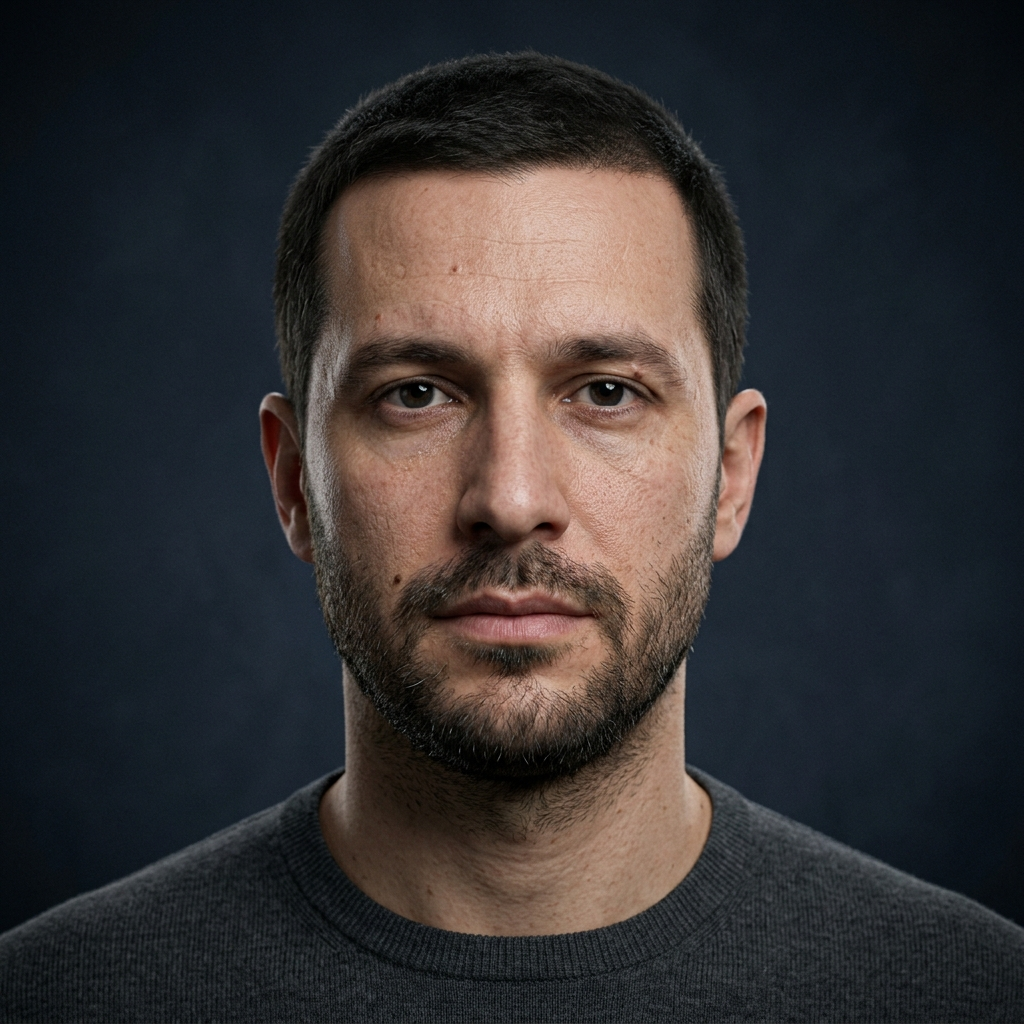
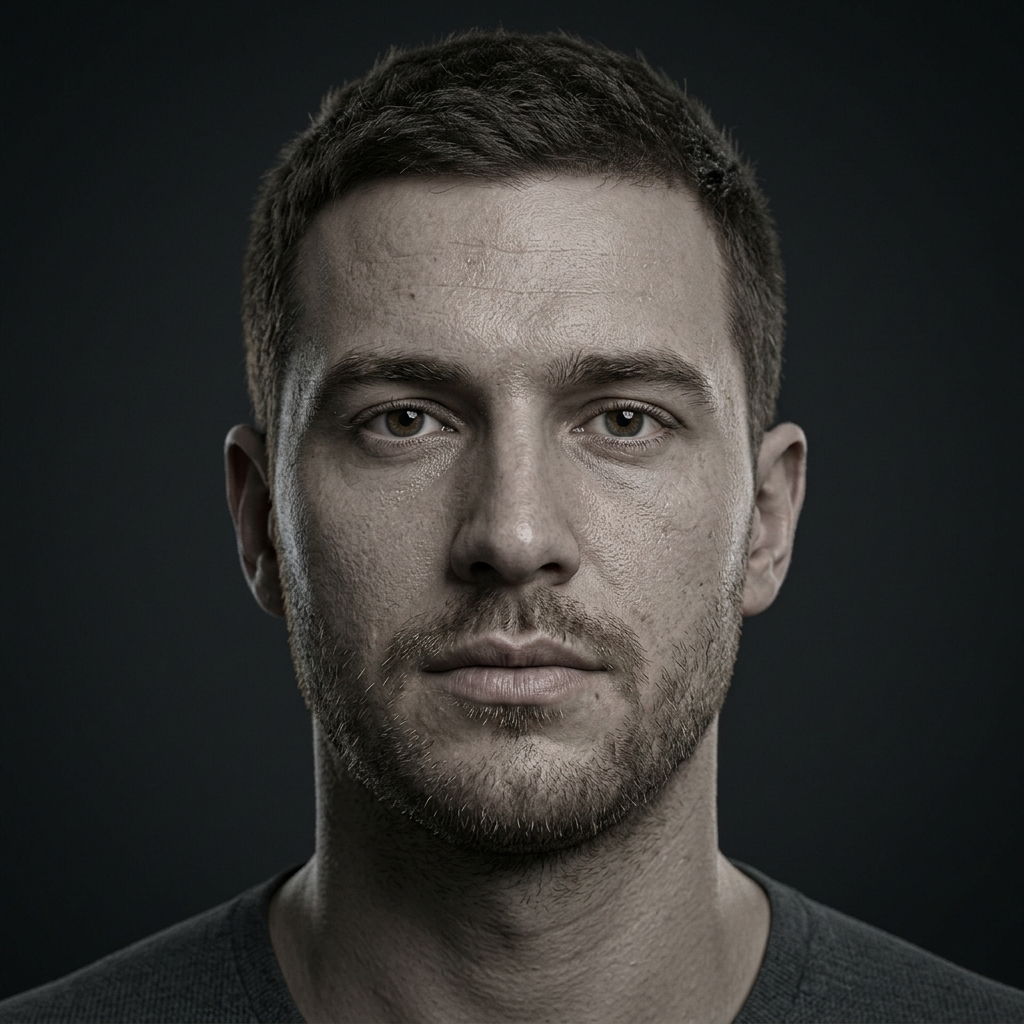
Replace Angelica and Jared with Draco-compressed April and James head models

diff --git a/index.html b/index.html
@@ -391,16 +391,16 @@
       
       <div class="head-select-grid">
         <div class="head-card" data-head="angelica">
-          <img class="head-card-preview" src="angelica_preview.png" alt="Angelica Face Model Preview">
-          <h3>Angelica</h3>
-          <p>Detailed female 3D scan. Optimized for standard eyewear.</p>
-          <span class="head-card-author">by DarkNik</span>
+          <img class="head-card-preview" src="angelica_preview.png" alt="April Face Model Preview">
+          <h3>April</h3>
+          <p>Detailed female 3D scan. Custom uploaded by user.</p>
+          <span class="head-card-author">Custom Upload</span>
         </div>
         <div class="head-card" data-head="jared">
-          <img class="head-card-preview" src="jared_preview.png" alt="Jared Face Model Preview">
-          <h3>Jared</h3>
-          <p>Realistic male head scan. Ideal for sports & wrap frames.</p>
-          <span class="head-card-author">by ARmediaLab</span>
+          <img class="head-card-preview" src="jared_preview.png" alt="James Face Model Preview">
+          <h3>James</h3>
+          <p>Realistic male head scan. Custom uploaded by user.</p>
+          <span class="head-card-author">Custom Upload</span>
         </div>
         <div class="head-card" data-head="zenda">
           <img class="head-card-preview" src="zenda_preview.png" alt="Zenda Face Model Preview">

diff --git a/app.js b/app.js
@@ -513,13 +513,13 @@ document.addEventListener('DOMContentLoaded', () => {
     let headNameLabel = "";
 
     if (modelKey === 'angelica') {
-      filename = "angelica.glb";
-      attributionHTML = `"Angelica" head model by <a href="https://skfb.ly/6ouNX" target="_blank">DarkNik</a> under <a href="http://creativecommons.org/licenses/by/4.0/" target="_blank">CC BY 4.0</a>.`;
-      headNameLabel = "Angelica (Female)";
+      filename = "April.glb";
+      attributionHTML = `"April" head model uploaded by user.`;
+      headNameLabel = "April (Female)";
     } else if (modelKey === 'jared') {
-      filename = "jared_head_scan_3d.glb";
-      attributionHTML = `"Jared Head Scan 3D" by <a href="https://skfb.ly/6CQVO" target="_blank">ARmediaLab</a> under <a href="http://creativecommons.org/licenses/by/4.0/" target="_blank">CC BY 4.0</a>.`;
-      headNameLabel = "Jared (Male)";
+      filename = "James.glb";
+      attributionHTML = `"James" head model uploaded by user.`;
+      headNameLabel = "James (Male)";
     } else if (modelKey === 'zenda') {
       filename = "zenda_3d_head.glb";
       attributionHTML = `"Zenda 3D Head" by <a href="https://skfb.ly/ow7BX" target="_blank">gurami.mamaladze</a> under <a href="http://creativecommons.org/licenses/by/4.0/" target="_blank">CC BY 4.0</a>.`;